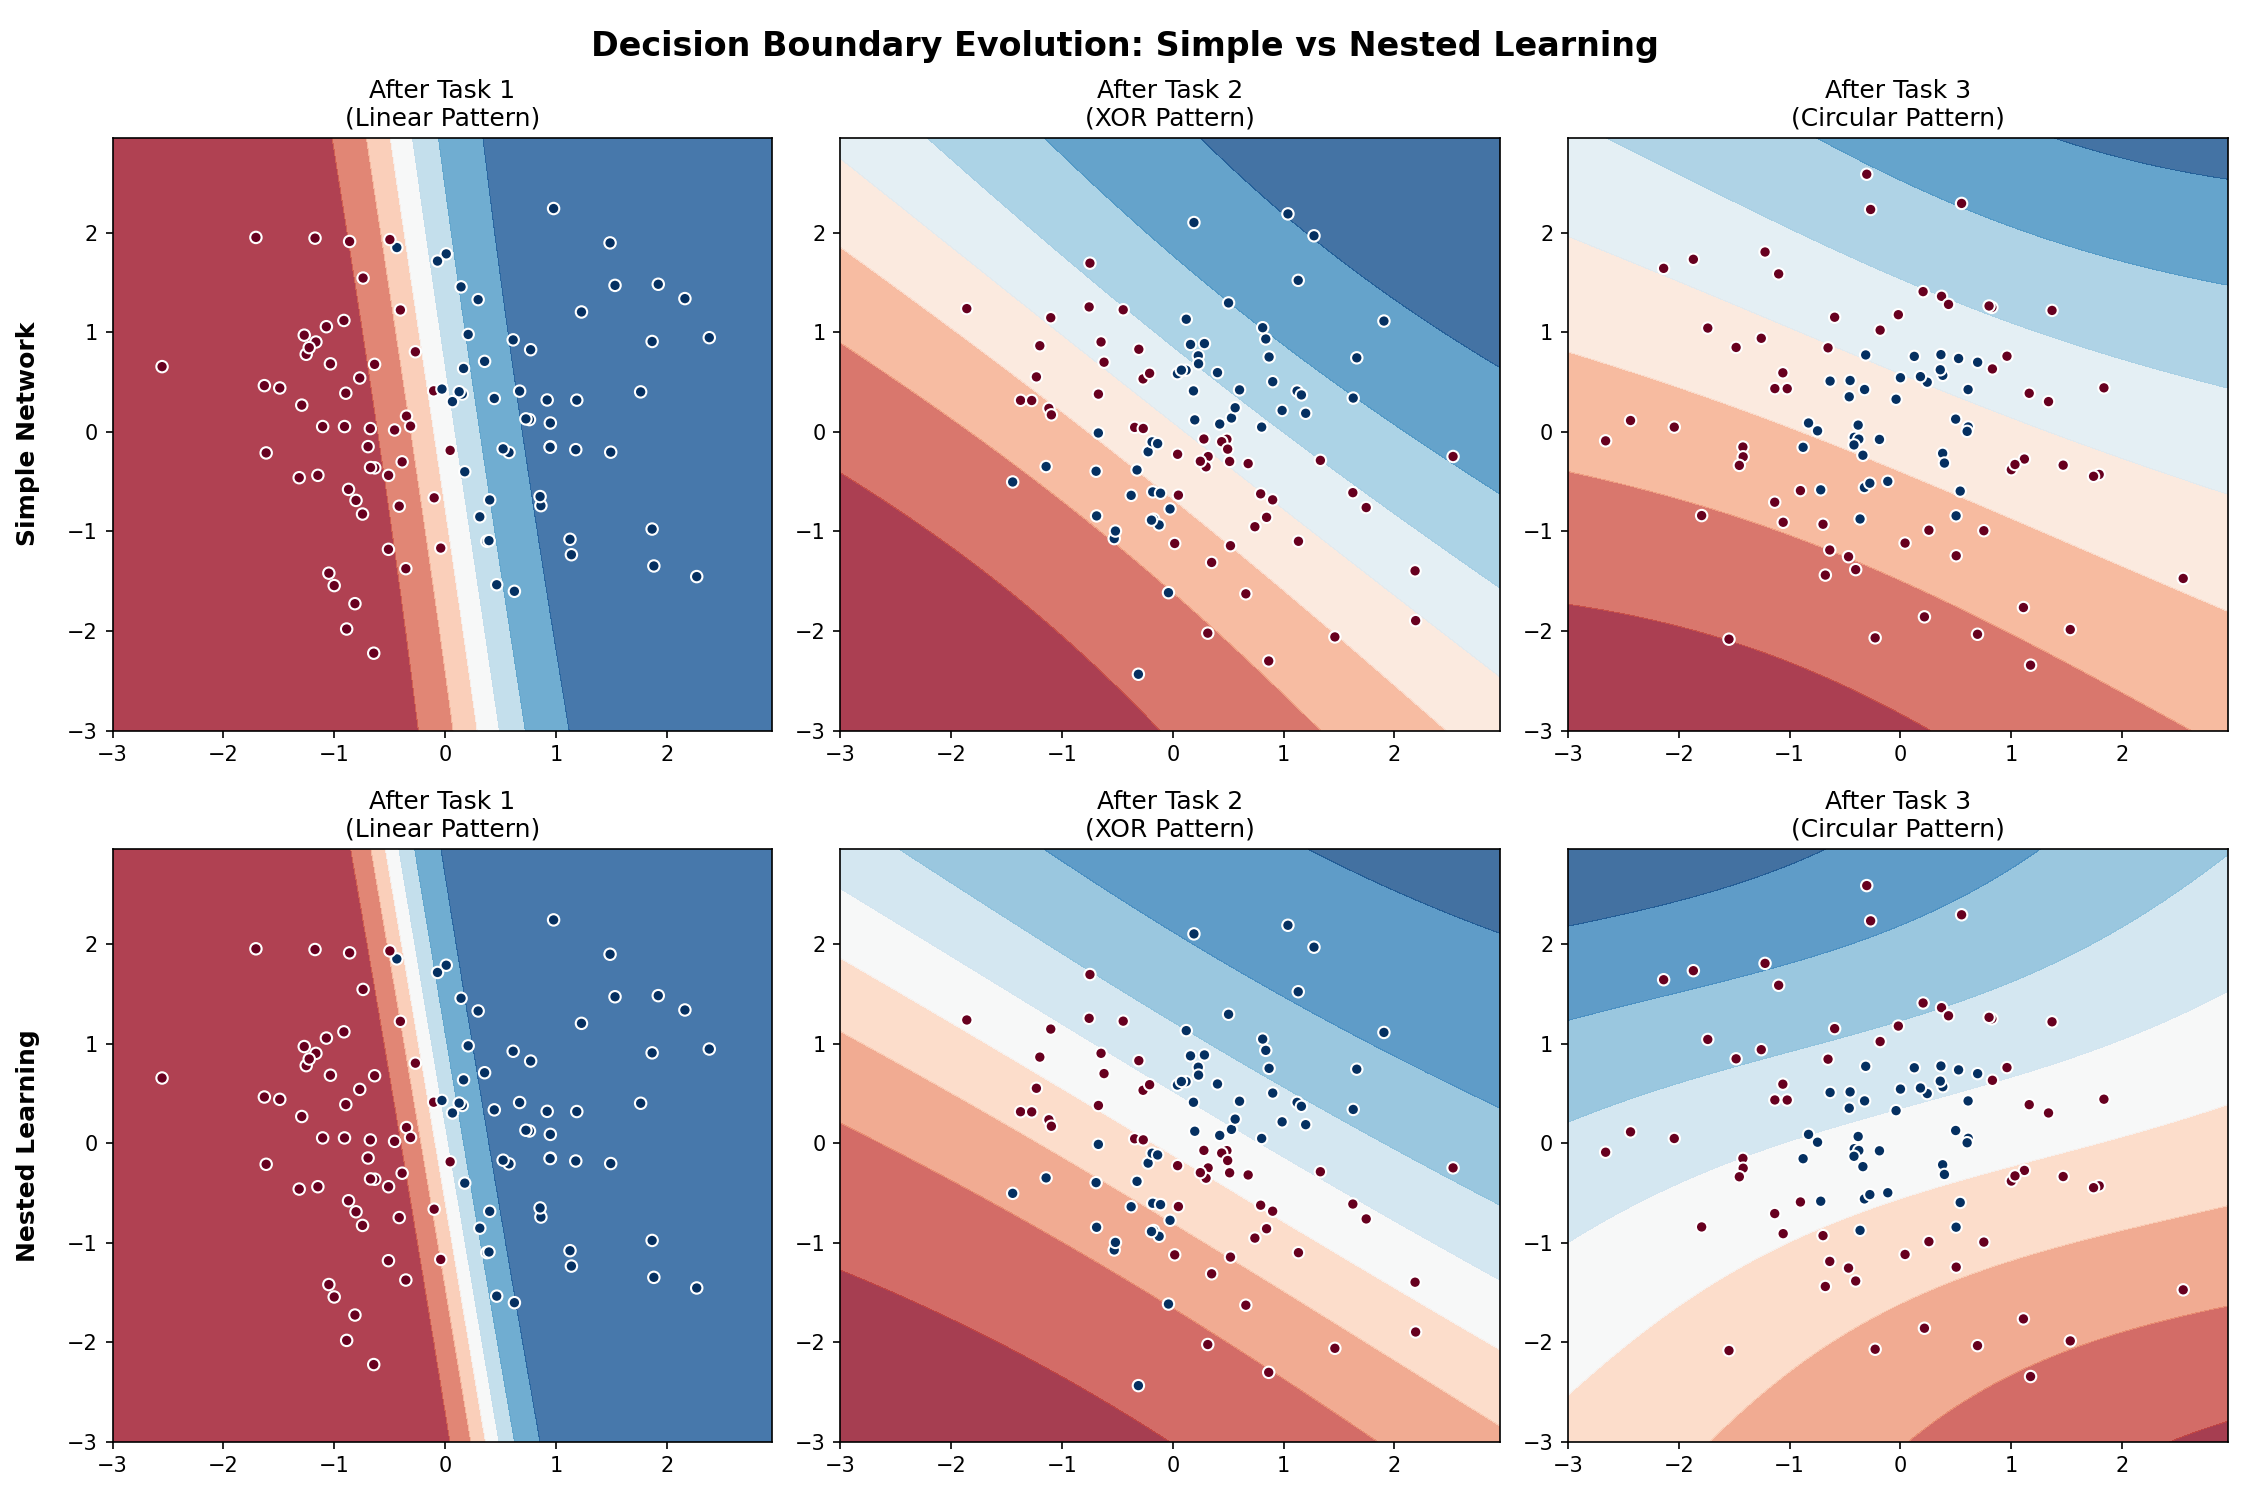
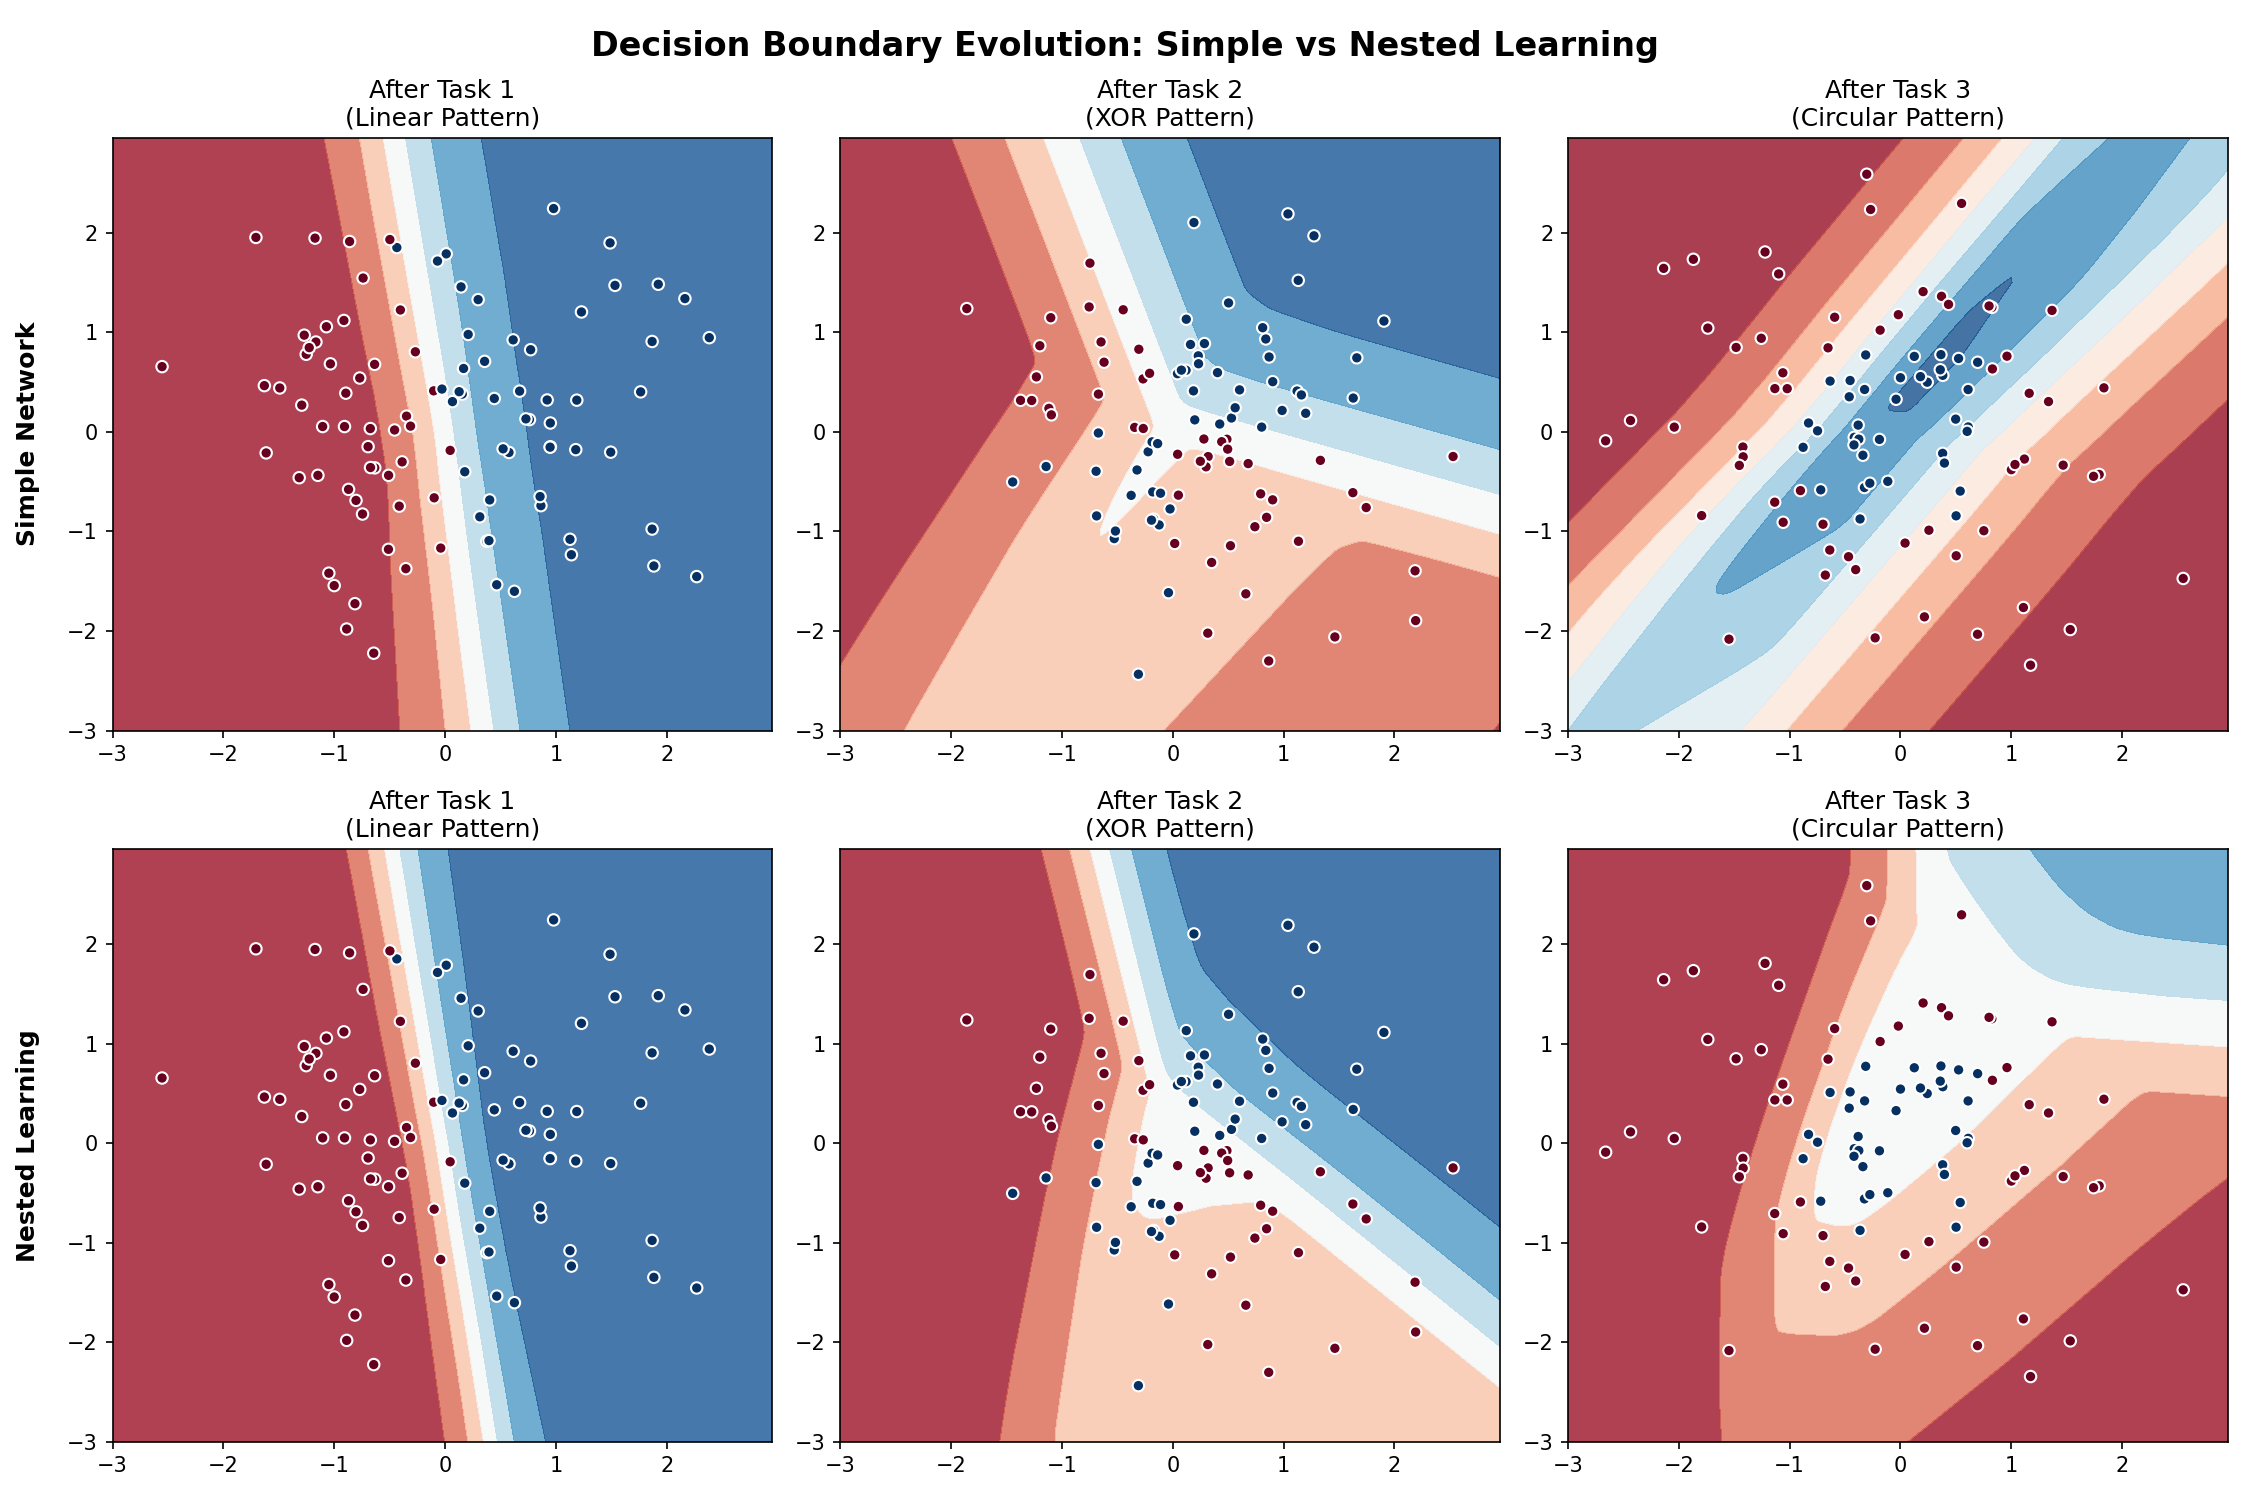
update

diff --git a/nested_learning_demo.py b/nested_learning_demo.py
@@ -57,7 +57,7 @@ def generate_task_data(task_id: int, n_samples: int = 100) -> Task:
 class SimpleNetwork:
     """Mạng neural đơn giản - baseline bị catastrophic forgetting"""
 
-    def __init__(self, input_dim: int = 2, hidden_dim: int = 16):
+    def __init__(self, input_dim: int = 2, hidden_dim: int = 64):
         self.W1 = np.random.randn(input_dim, hidden_dim) * 0.1
         self.b1 = np.zeros(hidden_dim)
         self.W2 = np.random.randn(hidden_dim, 1) * 0.1
@@ -65,7 +65,8 @@ class SimpleNetwork:
 
     def forward(self, X: np.ndarray) -> np.ndarray:
         self.z1 = X @ self.W1 + self.b1
-        self.a1 = np.tanh(self.z1)
+        # Sử dụng ReLU thay vì Tanh để tạo các đường gấp khúc sắc nét hơn
+        self.a1 = np.maximum(0, self.z1) 
         self.z2 = self.a1 @ self.W2 + self.b2
         return 1 / (1 + np.exp(-self.z2))
 
@@ -79,7 +80,7 @@ class SimpleNetwork:
 
         # Hidden layer gradients
         da1 = dz2 @ self.W2.T
-        dz1 = da1 * (1 - self.a1**2)
+        dz1 = da1 * (self.z1 > 0).astype(float) # ReLU derivative
         dW1 = X.T @ dz1 / m
         db1 = np.mean(dz1, axis=0)
 
@@ -248,7 +249,7 @@ class NestedLearningNetwork:
     - Self-modifying weights (inspired by HOPE/Titans)
     """
 
-    def __init__(self, input_dim: int = 2, hidden_dim: int = 16):
+    def __init__(self, input_dim: int = 2, hidden_dim: int = 64):
         # Network weights
         self.W1 = np.random.randn(input_dim, hidden_dim) * 0.1
         self.b1 = np.zeros(hidden_dim)
@@ -269,7 +270,7 @@ class NestedLearningNetwork:
     def forward(self, X: np.ndarray) -> np.ndarray:
         # Hidden layer với CMS integration
         self.z1 = X @ self.W1 + self.b1
-        self.a1 = np.tanh(self.z1)
+        self.a1 = np.maximum(0, self.z1) # ReLU
 
         # Tích hợp memory từ CMS vào hidden representation
         batch_mean = np.mean(self.a1, axis=0)
@@ -291,31 +292,49 @@ class NestedLearningNetwork:
     def backward(self, X: np.ndarray, y: np.ndarray, y_pred: np.ndarray, lr: float = 0.1):
         m = X.shape[0]
 
-        # Compute gradients
+        # 1. Compute gradients from current task (Task-specific loss)
         dz2 = y_pred - y.reshape(-1, 1)
         dW2 = self.a1_modulated.T @ dz2 / m
         db2 = np.mean(dz2, axis=0)
 
         da1 = dz2 @ self.W2.T
-        dz1 = da1 * (1 - self.a1**2)
+        dz1 = da1 * (self.z1 > 0).astype(float) # ReLU derivative
         dW1 = X.T @ dz1 / m
         db1 = np.mean(dz1, axis=0)
 
-        # Sử dụng Deep Optimizer thay vì SGD đơn giản
+        # 2. Add Regularization from Memory (Knowledge Preservation)
+        # Nếu đã có kiến thức cũ, thêm "lực kéo" để giữ weights không đổi quá nhiều
+        reg_strength = 15.0  # Giảm xuống để mô hình linh hoạt hơn khi học task mới
+        
+        if self.task_memories:
+            # Lấy kiến thức gần nhất (hoặc trung bình các task cũ)
+            last_mem = self.task_memories[-1]
+            
+            # Tính gradient phạt: reg_strength * (current_weight - old_weight)
+            # Điều này tương đương với L2 regularization quanh điểm tối ưu cũ
+            dW1 += reg_strength * (self.W1 - last_mem['W1']) / m
+            dW2 += reg_strength * (self.W2 - last_mem['W2']) / m
+            # Bias thường ít quan trọng hơn nên có thể bỏ qua hoặc phạt nhẹ
+
+        # 3. Deep Optimizer Update
+        # Sử dụng Deep Optimizer để làm mượt gradient
         update_W1 = self.optimizer.compute_update(0, dW1)
         update_b1 = self.optimizer.compute_update(1, db1)
         update_W2 = self.optimizer.compute_update(2, dW2)
         update_b2 = self.optimizer.compute_update(3, db2)
 
-        # Apply updates
+        # 4. Apply updates
         self.W2 -= lr * update_W2
         self.b2 -= lr * update_b2
         self.W1 -= lr * update_W1
         self.b1 -= lr * update_b1
 
     def consolidate_task(self, task: Task):
-        """Lưu lại knowledge từ task hiện tại vào long-term memory"""
-        # Lưu trạng thái weights và CMS
+        """
+        Lưu lại knowledge từ task hiện tại vào long-term memory
+        Đây là bước quan trọng để tạo 'checkpoint' cho kiến thức
+        """
+        print(f"   [Consolidating knowledge from task: {task.name}]")
         self.task_memories.append({
             'W1': self.W1.copy(),
             'W2': self.W2.copy(),

diff --git a/README.md b/README.md
@@ -24,6 +24,14 @@ Demo minh họa **Nested Learning** - một paradigm học tập mới từ Goog
 3. **Continuum Memory System** - Bộ nhớ đa tần suất (fast/medium/slow)
 4. **Unified Architecture & Optimization** - Thống nhất kiến trúc và tối ưu hóa
 
+## Cập nhật kỹ thuật (Technical Updates)
+
+- **Kiến trúc mạng:** Sử dụng **ReLU** activation và **64 hidden units** (thay vì Tanh/16 units) để có thể học được các đường biên phức tạp (như hình tròn).
+- **Cơ chế bảo tồn (Consolidation):** Cài đặt cơ chế **Elastic Weight Consolidation (EWC)** đơn giản hóa.
+  - Khi chuyển task, mô hình lưu lại "snapshot" trọng số cũ.
+  - Thêm một `reg_strength` (lực kéo) vào hàm loss để ngăn trọng số mới đi quá xa so với trọng số cũ.
+  - Hiện tại `reg_strength = 15.0` để cân bằng giữa việc nhớ cũ (Stability) và học mới (Plasticity).
+
 ## Dữ liệu đầu vào (Input Data)
 
 Demo sử dụng 3 bài toán phân loại (Classification Tasks) khác nhau được học tuần tự để kiểm tra khả năng ghi nhớ:
@@ -62,7 +70,9 @@ So sánh khả năng ghi nhớ kiến thức cũ giữa mạng thường và Nes
 
 > **Nhận xét:**
 > - **Hàng trên (Simple Network):** Khi chuyển sang học Task 2 (XOR), mô hình "quên sạch" Task 1 (Linear). Vùng phân chia (màu xanh/đỏ) thay đổi hoàn toàn để phục vụ task mới nhất. Đây là hiện tượng *Catastrophic Forgetting*.
-> - **Hàng dưới (Nested Learning):** Khi học Task 2 và 3, mô hình vẫn cố gắng duy trì cấu trúc phân chia của các task cũ. Vùng kiến thức cũ được bảo tồn tốt hơn nhờ cơ chế *Deep Optimizer* và *Continuum Memory*.
+> - **Hàng dưới (Nested Learning):** Khi học Task 2 và 3, mô hình vẫn cố gắng duy trì cấu trúc phân chia của các task cũ.
+>   - Ở Task 3 (Circular), dù phải học hình tròn mới, bạn vẫn thấy bóng dáng các vệt màu của Task 2 (XOR) và Task 1 (Linear) ở nền.
+>   - Điều này chứng tỏ kiến thức cũ được bảo tồn nhờ cơ chế Regularization (dây thun ký ức).
 
 ### 2. Performance & Memory (hiệu năng và bộ nhớ)
 
